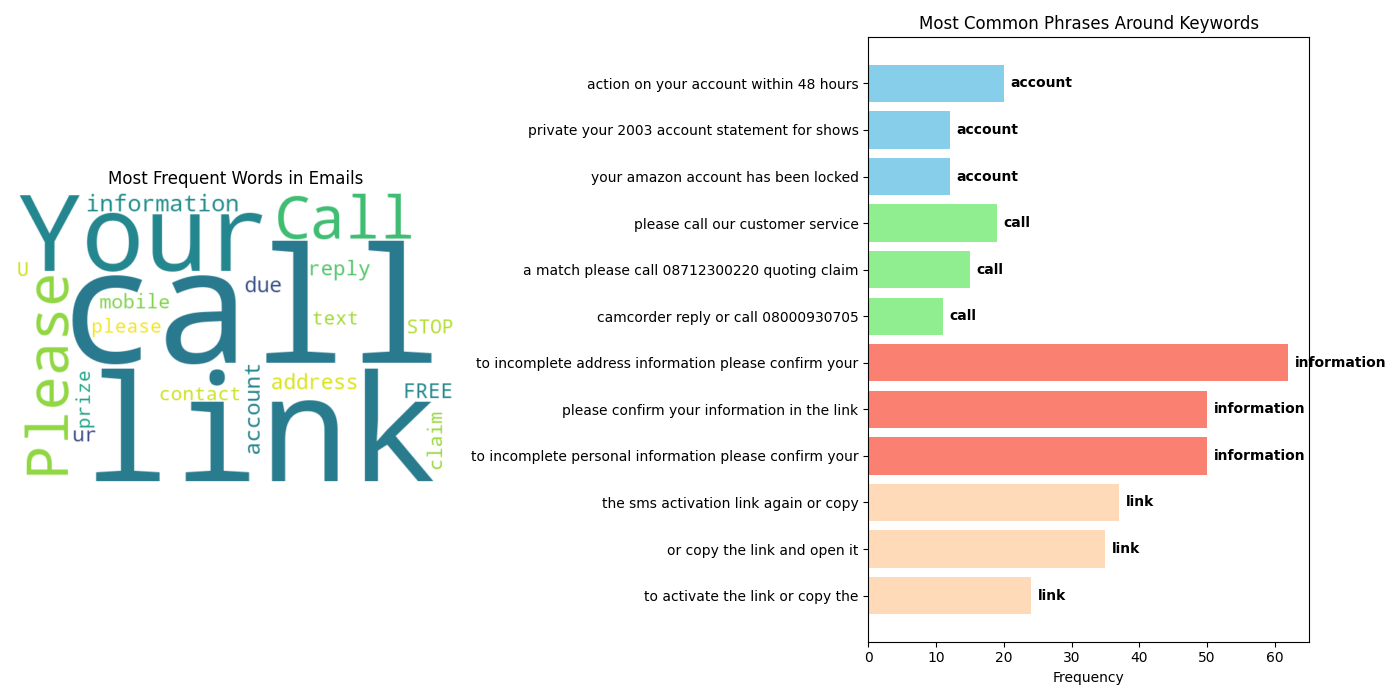
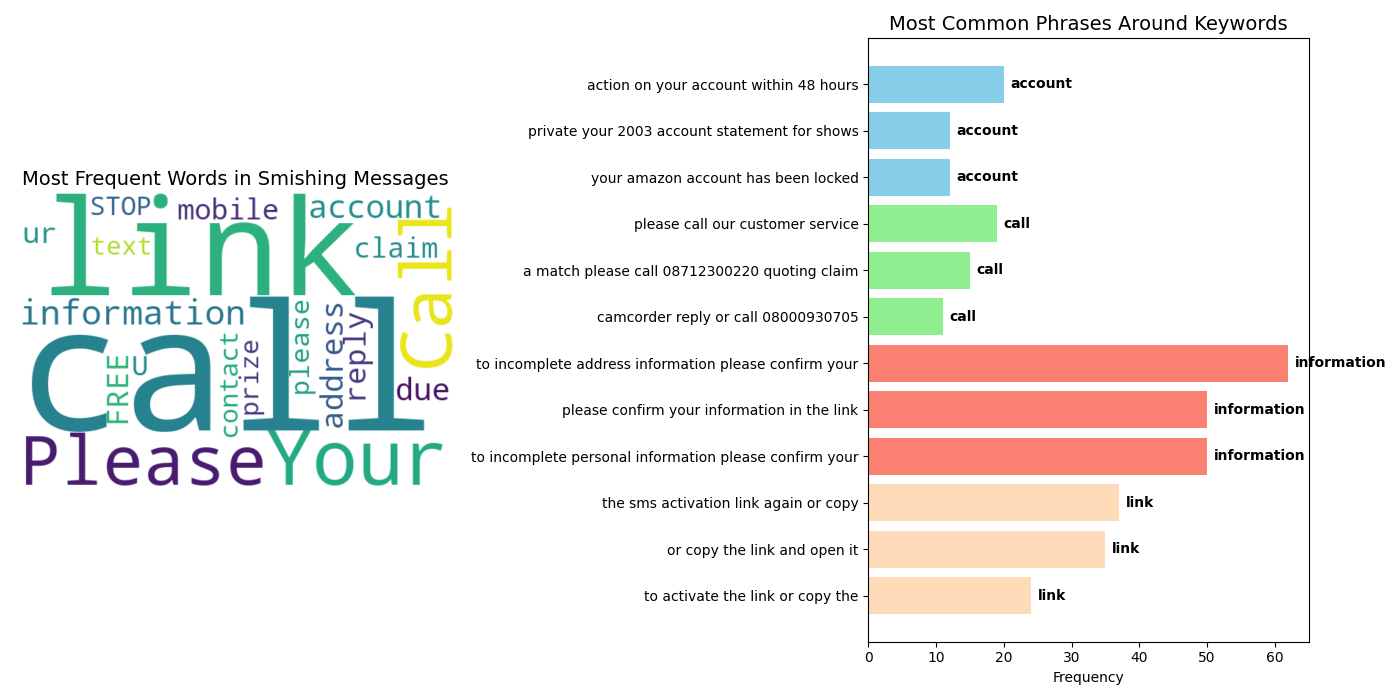
updated fig and code for label correctness

diff --git a/smish_characterization/smishing_word_analysis.py b/smish_characterization/smishing_word_analysis.py
@@ -183,7 +183,7 @@ wf_ee = dict(wf_ee)
 wordcloud = WordCloud(width=600, height=400, background_color='white').generate_from_frequencies(wf_ee)
 axs[0].imshow(wordcloud, interpolation='bilinear')
 axs[0].axis('off')
-axs[0].set_title("Most Frequent Words in Emails")
+axs[0].set_title("Most Frequent Words in Smishing Messages", fontsize=14)
 
 # Create the phrase table as a bar chart with labels for each word
 # Get top phrases for each word
@@ -197,7 +197,7 @@ colors = ['skyblue'] * num_phrases +  ['lightgreen'] * num_phrases +  ['salmon']
 axs[1].barh(phrases, frequencies, color=colors)
 axs[1].invert_yaxis()  # Display the highest frequency at the top
 axs[1].set_xlabel("Frequency")
-axs[1].set_title("Most Common Phrases Around Keywords")
+axs[1].set_title("Most Common Phrases Around Keywords", fontsize=14)
 
 # Annotate bars with the associated keyword
 for index, (freq, word) in enumerate(zip(frequencies, words)):
